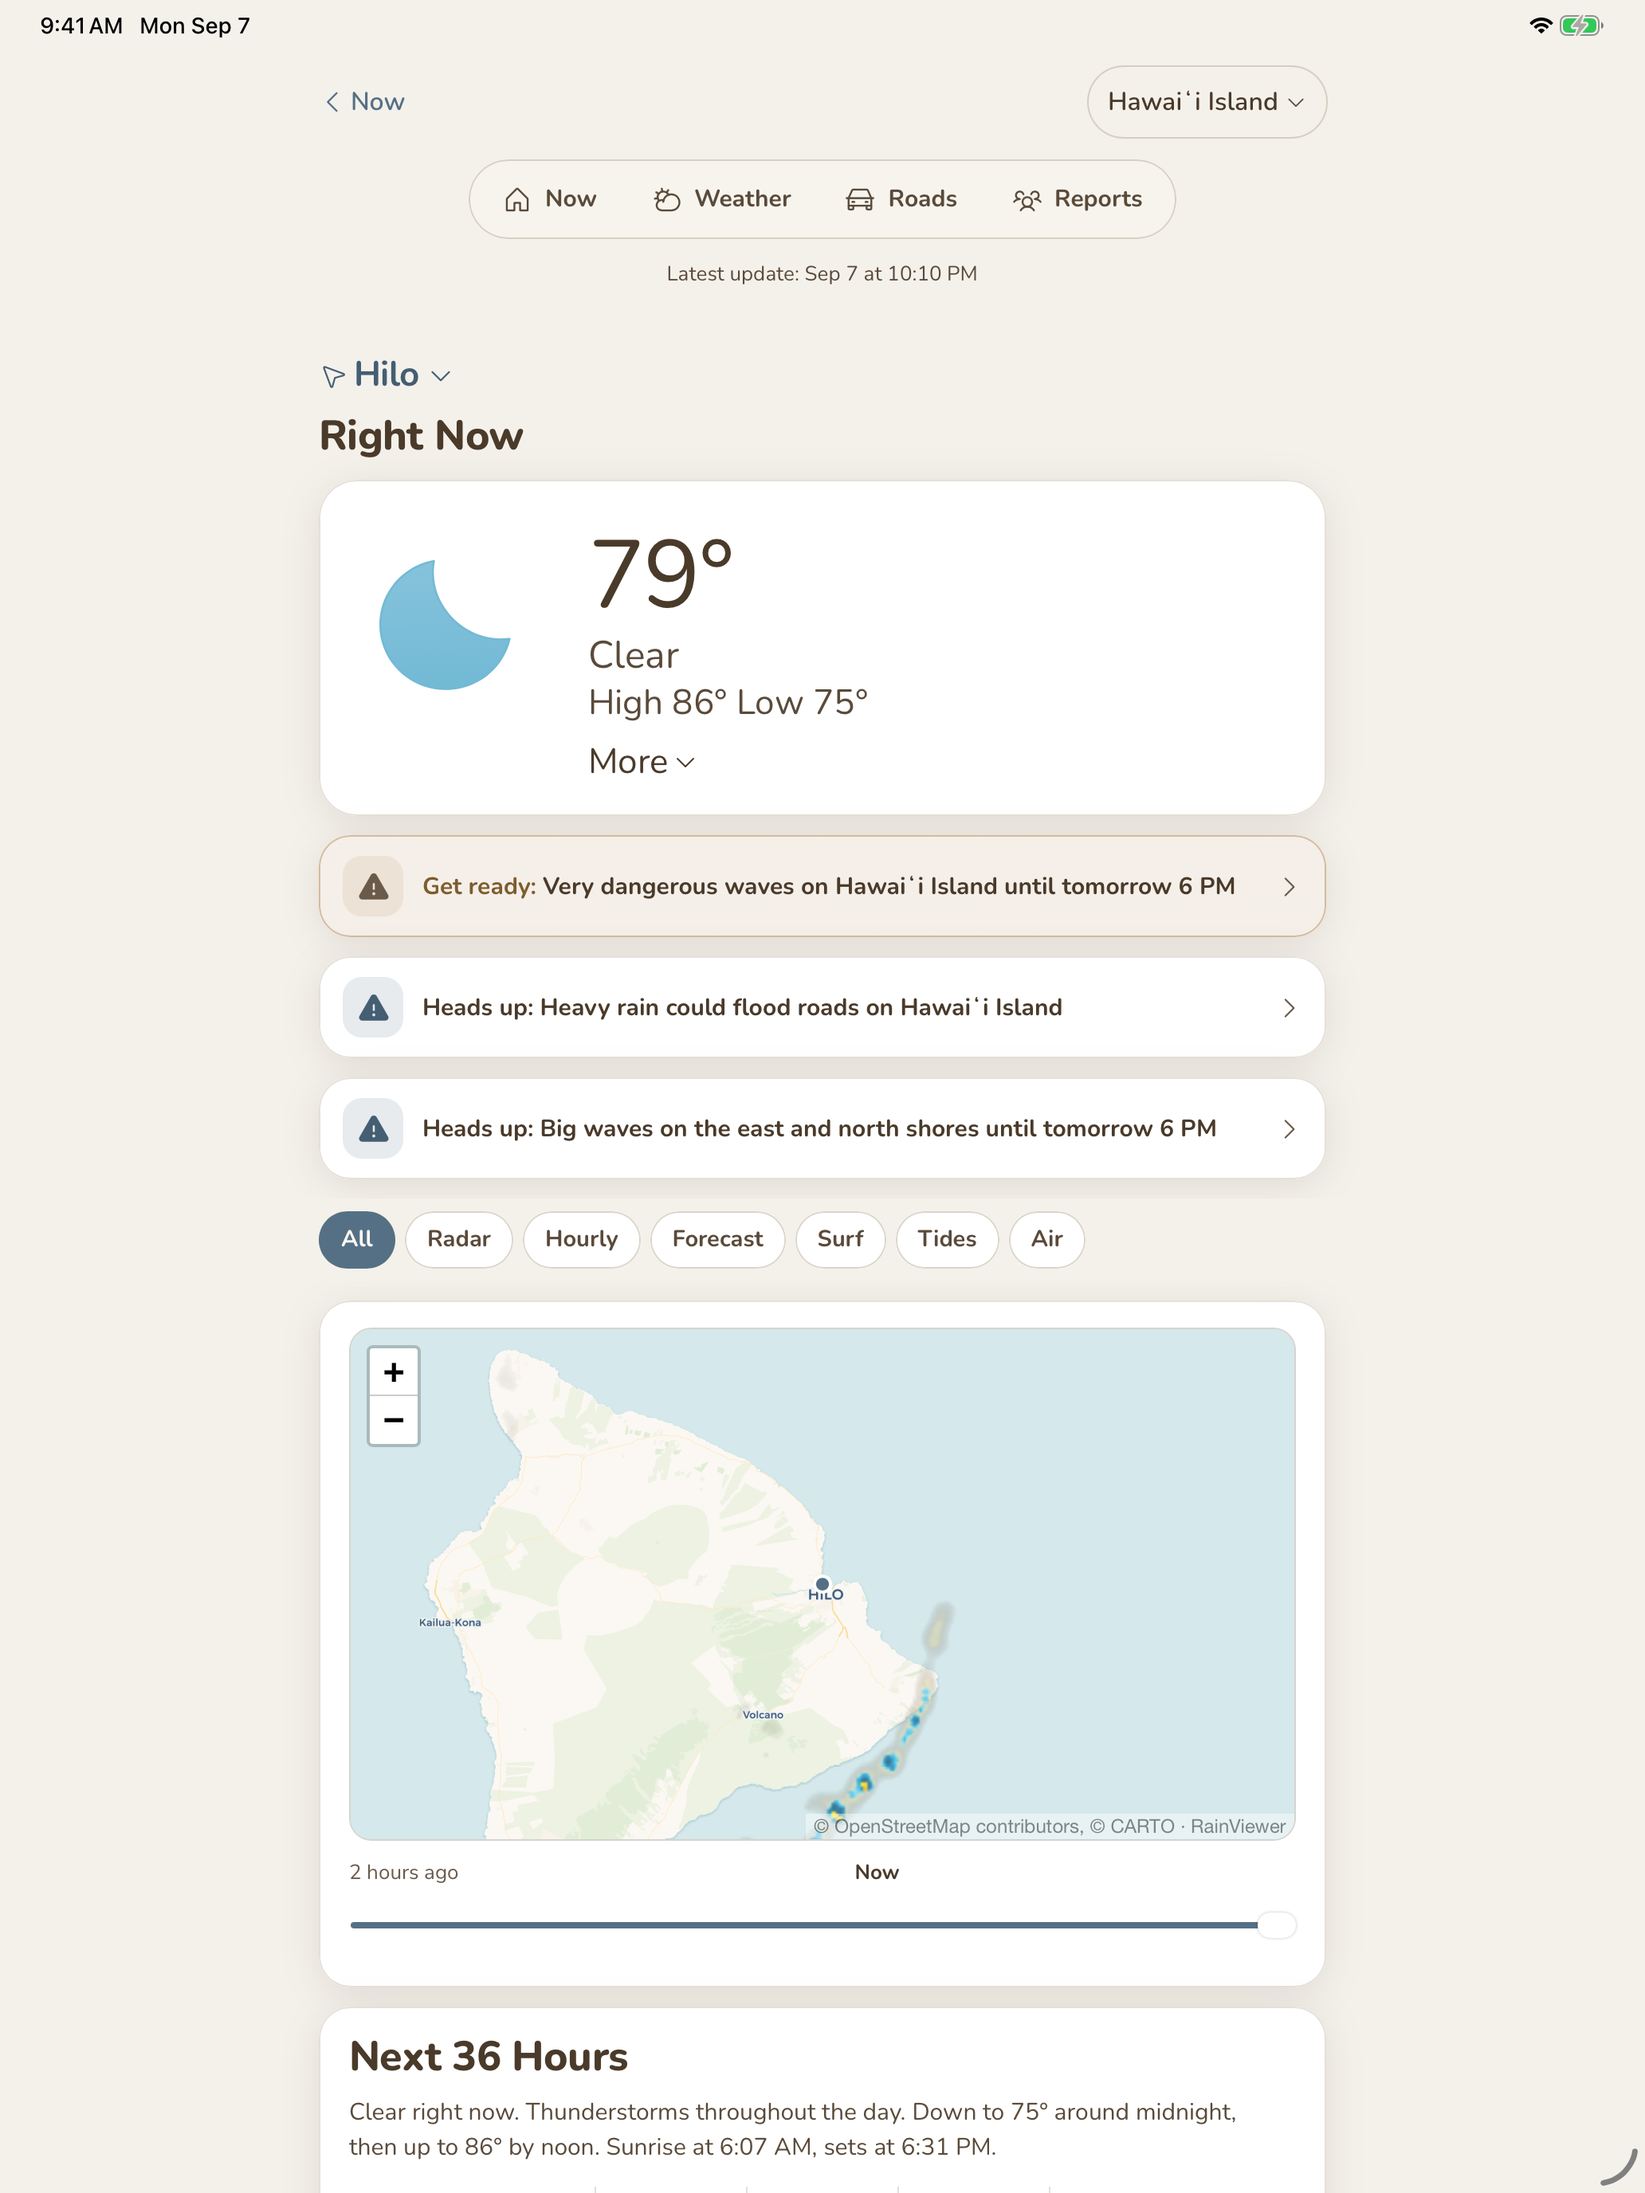
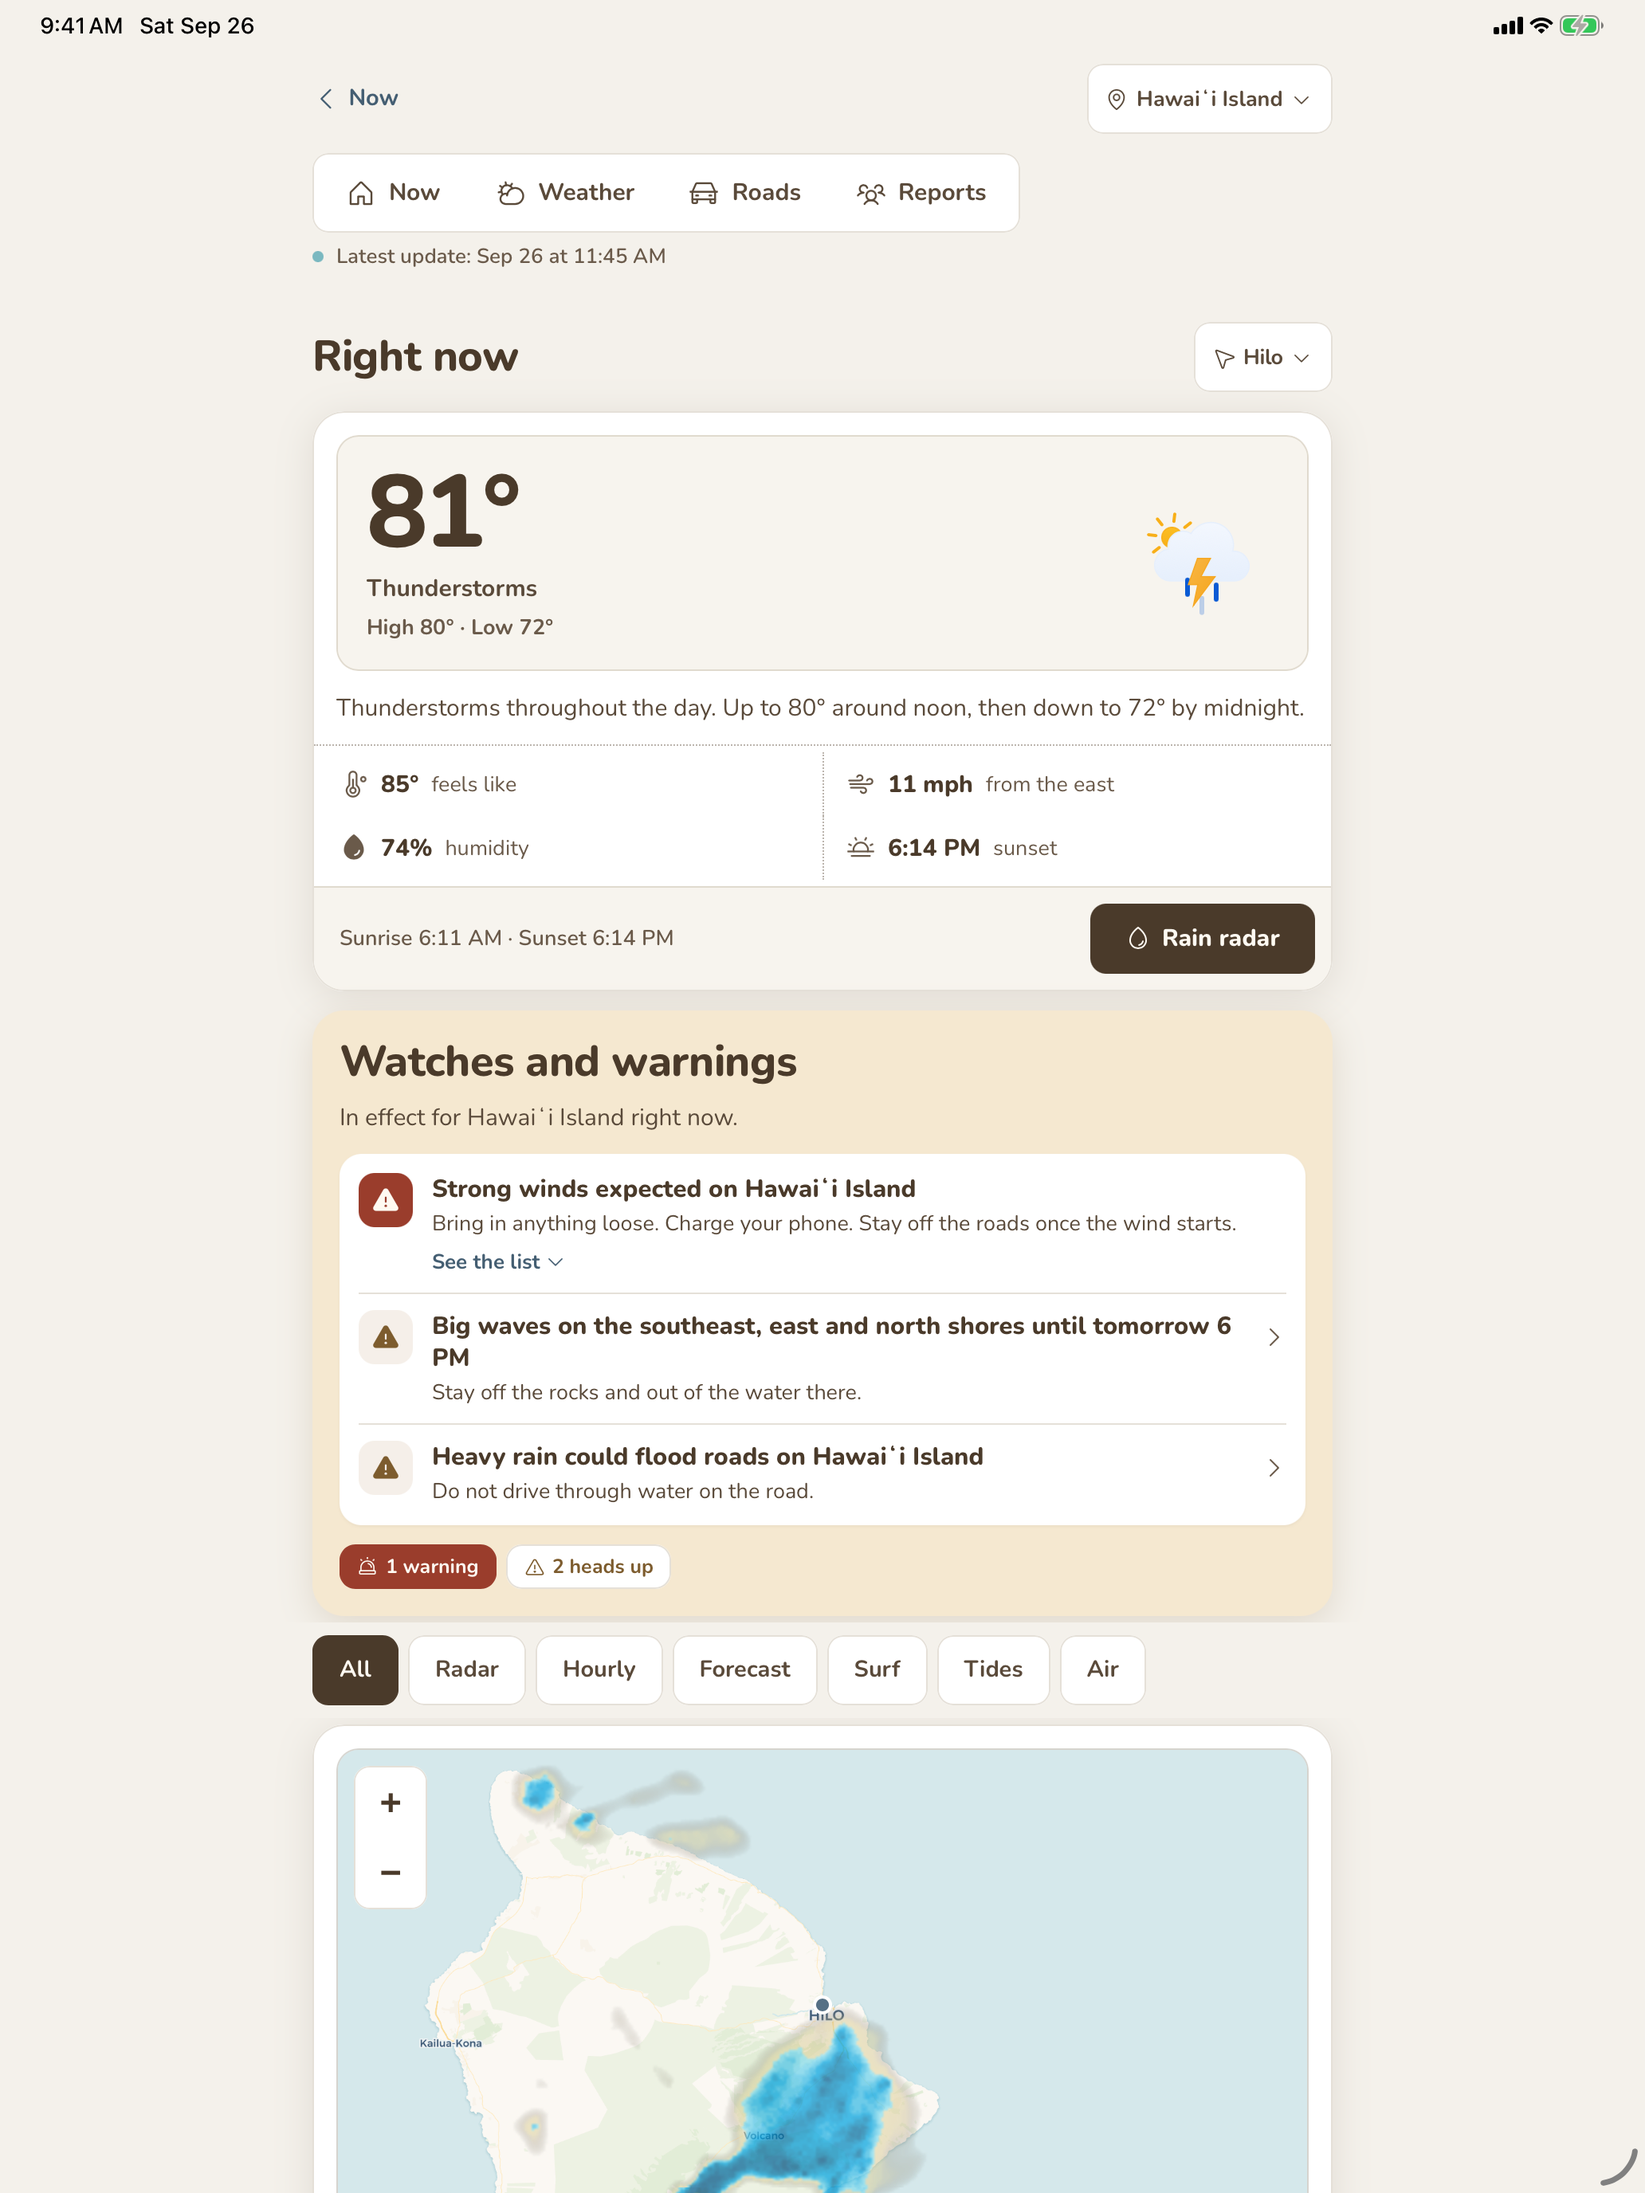
App Store screenshots retaken from the redesigned app, plus a fifth for the storm timeline
Ten captures from the real app in the simulator (iPhone 17 Pro Max 1320×2868, iPad Pro 13"
2064×2752) with live production data and a 9:41 status bar, framed to match the previous set:
same headlines, backgrounds, type, screen scale and shadow. The new fifth screen shows the storm
timeline under "Watch the storm's path, hour by hour." No alpha channel; exact sizes.

tools/ holds the capture script (it launches the app on each page via Capacitor's appStartPath),
the framing template, its render script and the contact sheet, so the next set is one command.

Claude-Session: https://claude.ai/code/session_01CfGA4ivsH2DG8e6SKvhKGP

diff --git a/design/appstore/tools/template.html b/design/appstore/tools/template.html
@@ -1,0 +1,39 @@
+<!doctype html>
+<html><head><meta charset="utf-8">
+<link rel="stylesheet" href="https://fonts.googleapis.com/css2?family=Nunito:wght@800&display=block">
+<style>
+  /* Measured from the Sep 7 set (design/appstore). iPhone 1320x2868, iPad 2064x2752.
+     iPad sy 467->497, hTop 150->170 (100px headline-to-screen gap, like iPhone): pushes the iPadOS windowed-apps resize handle (raw y>=2690, bottom-right) below the crop line. */
+  html,body{margin:0;padding:0;overflow:hidden}
+  body{width:var(--W);height:var(--H);background:var(--bg);position:relative}
+  h1{position:absolute;left:0;right:0;top:var(--hTop);margin:0;text-align:center;
+     font:800 var(--fs)/var(--lh) Nunito,sans-serif;letter-spacing:var(--ls);color:var(--ink)}
+  .screen{position:absolute;left:var(--sx);top:var(--sy);width:var(--sw);box-sizing:border-box;
+     border:1px solid #e3ded7;border-radius:var(--r);overflow:hidden;background:#f4f1eb;
+     box-shadow:0 4px 14px rgba(70,50,36,.15),0 30px 90px rgba(70,50,36,.27)}
+  .screen img{display:block;width:100%;height:auto}
+</style></head>
+<body>
+<h1 id="h"></h1>
+<div class="screen"><img id="shot" alt=""></div>
+<script>
+const q=new URLSearchParams(location.search), dev=q.get('d'), name=q.get('n');
+const DEV={
+  iphone:{W:1320,H:2868,fs:'92px',lh:'103px',ls:'-0.02em',hTop:'170px',sx:'115px',sy:'468px',sw:'1090px',r:'59px'},
+  ipad:  {W:2064,H:2752,fs:'104px',lh:'116px',ls:'-0.02em',hTop:'150px',sx:'167px',sy:'467px',sw:'1730px',r:'53px'}
+}[dev];
+const S={
+  '1-now':    ['Everything happening','on your island.','#e6dcc9','#4a3a2a'],
+  '2-weather':['The weather,','in plain words.','#c8dfef','#1d547c'],
+  '3-roads':  ['Know what’s closed','before you go.','#f1e9c5','#7d6a1c'],
+  '4-tsunami':['Know your zone','before the siren.','#cce8eb','#256e74'],
+  '5-storms': ['Watch the storm’s path,','hour by hour.','#d5ccea','#3d2673']
+}[name];
+const st=document.body.style;
+for (const k in DEV) st.setProperty('--'+k, typeof DEV[k]==='number'? DEV[k]+'px' : DEV[k]);
+for (const k of ['fs','lh','ls','hTop','sx','sy','sw','r']) if (q.get(k)) st.setProperty('--'+k,q.get(k));
+st.setProperty('--bg',S[2]); st.setProperty('--ink',S[3]);
+document.getElementById('h').innerHTML=S[0]+'<br>'+S[1];
+document.getElementById('shot').src='../raw/'+dev+'/'+name+'.png';
+</script>
+</body></html>

diff --git a/design/appstore/tools/sheet.html b/design/appstore/tools/sheet.html
@@ -1,0 +1,22 @@
+<!doctype html>
+<html><head><meta charset="utf-8">
+<style>
+  /* Matches design/appstore/contact-sheet.png: 2200x1180, #2a2a2a, 16px pad, 520px-tall thumbs, 14px gaps. */
+  html,body{margin:0;overflow:hidden}
+  body{width:2200px;height:1180px;background:#2a2a2a;padding:16px;box-sizing:border-box;
+       font:var(--lw,600) var(--lf,13px) -apple-system,BlinkMacSystemFont,"Helvetica Neue",sans-serif;color:#bbb}
+  .row{display:flex;gap:14px;margin-bottom:var(--rg,31px)}
+  figure{margin:0;text-align:center}
+  img{display:block;height:520px}
+  figcaption{margin-top:var(--cm,5px);line-height:18px}
+</style></head><body>
+<script>
+const q=new URLSearchParams(location.search);
+for (const k of ['lf','lw','cm','rg']) if (q.get(k)) document.body.style.setProperty('--'+k,q.get(k));
+const names=['1-now','2-weather','3-roads','4-tsunami','5-storms'];
+for (const [dir,label] of [['iphone-6.9','iPhone 6.9"'],['ipad-13','iPad 13"']]) {
+  const row=document.createElement('div'); row.className='row';
+  for (const n of names) row.insertAdjacentHTML('beforeend',`<figure><img src="${q.get('src')||'../framed'}/${dir}/${n}.png"><figcaption>${label} · ${n}</figcaption></figure>`);
+  document.body.appendChild(row);
+}
+</script></body></html>

diff --git a/design/appstore/resubmit-checklist.md b/design/appstore/resubmit-checklist.md
@@ -31,8 +31,8 @@ around them because the app now looks different.
 ## 3. Screenshots — must be retaken
 The sets in `iphone-6.9/` and `ipad-13/` were captured on Sep 23, **before** the redesign, so they
 no longer match the app. Apple rejects screenshots that do not reflect the build (2.3.3).
-- [ ] iPhone 6.9": Now, Weather, Roads, Tsunami (same four, new look). Replace `iphone-6.9/*`.
-- [ ] iPad 13": the same four. Replace `ipad-13/*`.
+- [x] iPhone 6.9": Now, Weather, Roads, Tsunami, Storms — retaken 2026-09-26 from the real app (`tools/capture.sh`, framed by `tools/template.html`).
+- [x] iPad 13": the same five, retaken 2026-09-26.
 - [ ] Upload both sets in App Store Connect for the new version.
 
 ## 4. Screen recording for App Review
